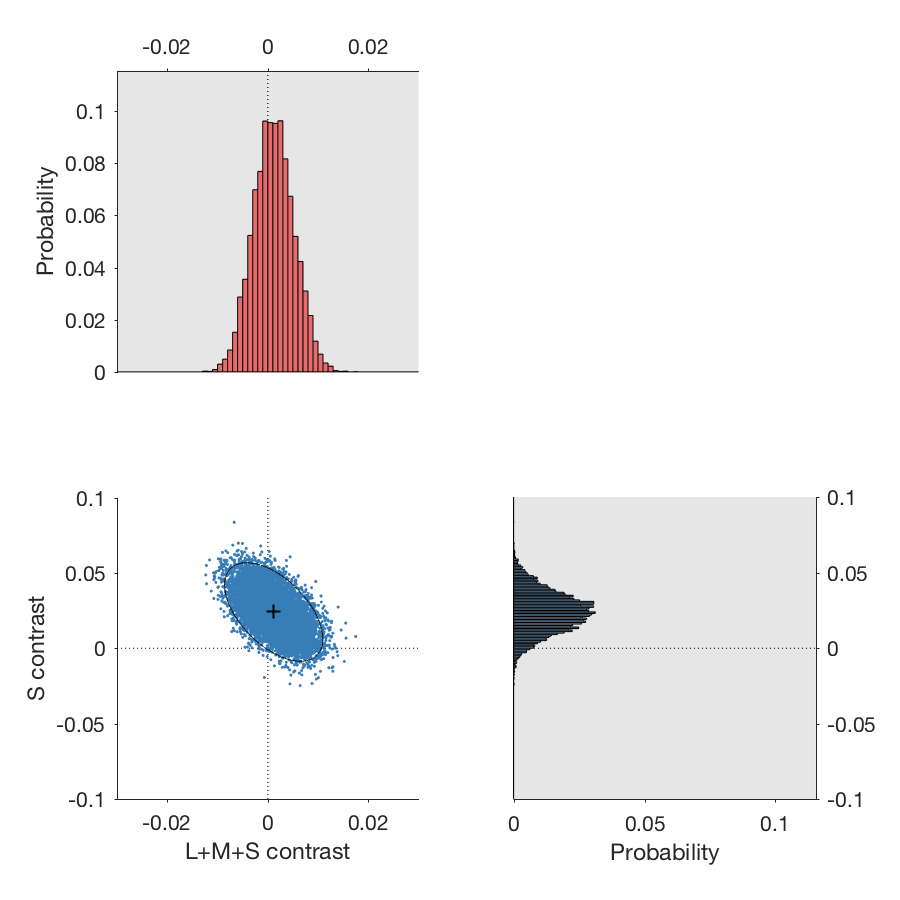
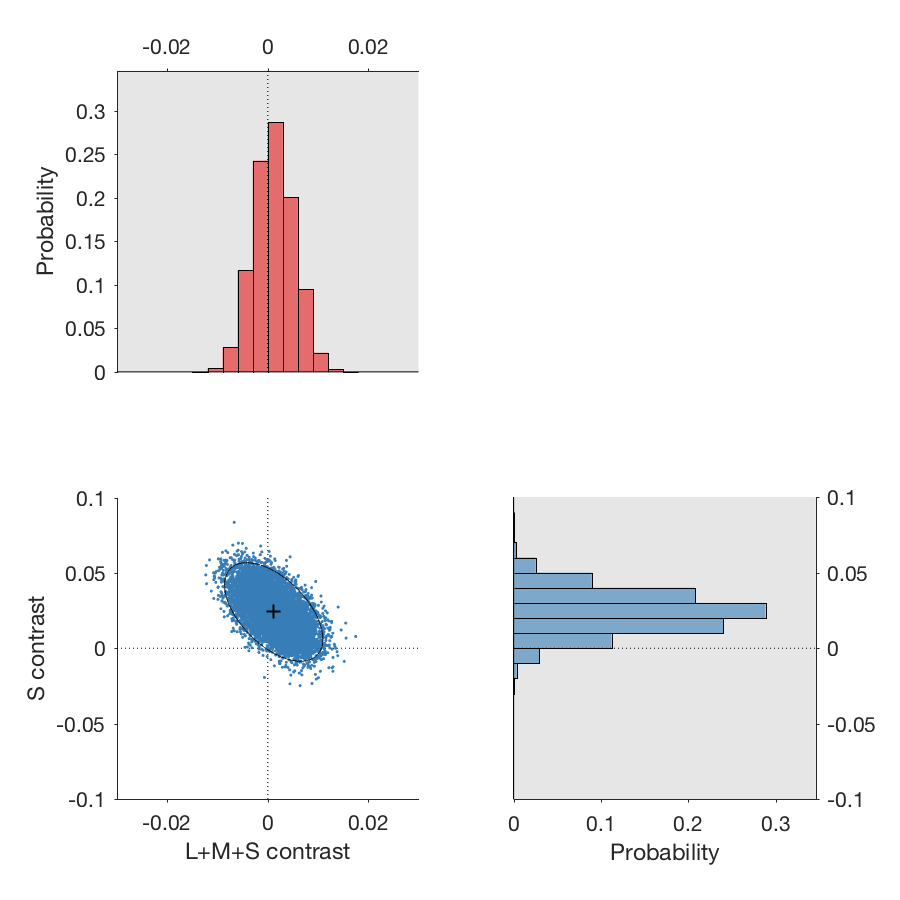
Bin width adjusted depending on axis labels

diff --git a/SST/SSTReceptorDemo.m b/SST/SSTReceptorDemo.m
@@ -169,10 +169,12 @@ XNominalContrast = 0;
 YNominalContrast = 0;
 XAxLims = XNominalContrast+[-0.03 0.03];
 YAxLims = YNominalContrast+[-0.03 0.03];
+XBinWidth = max(XAxLims)/10;
+YBinWidth = max(YAxLims)/10;
 
 % Throw it in a scatter plot
 ScatterplotWithHistogram(postRecepContrasts(1, :), postRecepContrasts(2, :), ...
-    'XLim', XAxLims, 'YLim', YAxLims, 'BinWidth', 0.004, ...
+    'XLim', XAxLims, 'YLim', YAxLims, 'XBinWidth', XBinWidth, 'YBinWidth', YBinWidth, ...
     'XLabel', 'L+M+S contrast', 'YLabel', 'L-M contrast', ...
     'XRefLines', [XAxLims ; YNominalContrast YNominalContrast], ...
     'YRefLines', [XNominalContrast XNominalContrast ; YAxLims], ...
@@ -200,10 +202,12 @@ XNominalContrast = 0;
 YNominalContrast = 0;
 XAxLims = XNominalContrast+[-0.03 0.03];
 YAxLims = YNominalContrast+[-0.1 0.1];
+XBinWidth = max(XAxLims)/10;
+YBinWidth = max(YAxLims)/10;
 
 % Throw it in a scatter plot
 ScatterplotWithHistogram(postRecepContrasts(1, :), postRecepContrasts(3, :), ...
-    'XLim', XAxLims, 'YLim', YAxLims, 'BinWidth', 0.004, ...
+    'XLim', XAxLims, 'YLim', YAxLims, 'XBinWidth', XBinWidth, 'YBinWidth', YBinWidth, ...
     'XLabel', 'L+M+S contrast', 'YLabel', 'S contrast', ...
     'XRefLines', [XAxLims ; YNominalContrast YNominalContrast], ...
     'YRefLines', [XNominalContrast XNominalContrast ; YAxLims], ...
